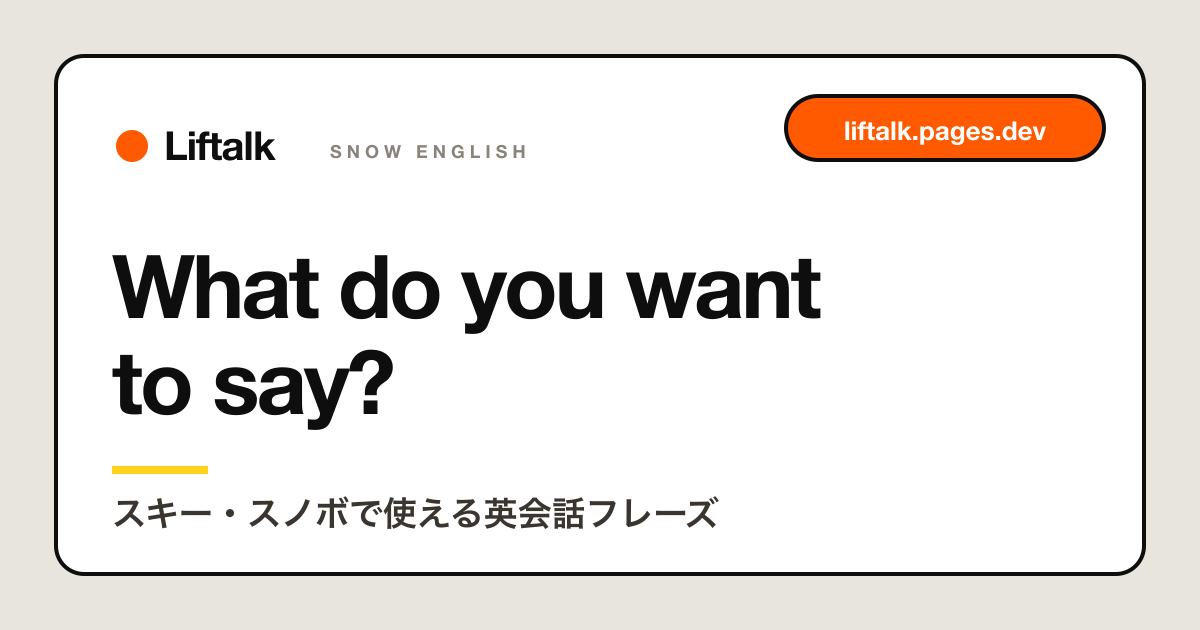
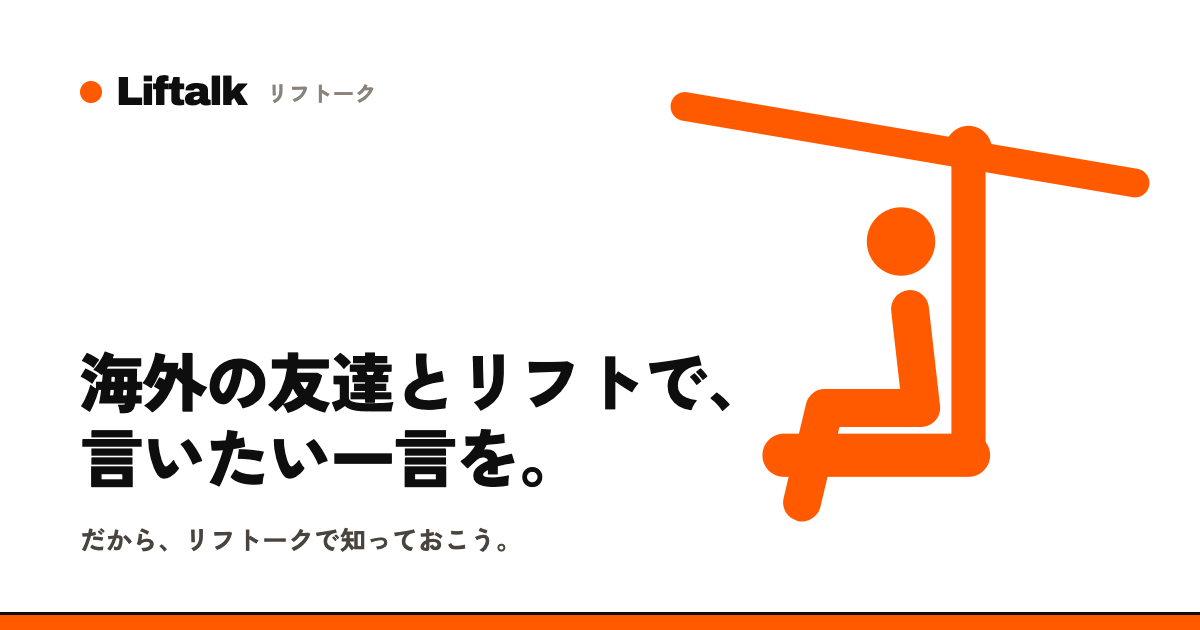
OGP画像とアイコンを新デザインに差し替え、manifestを追加

diff --git a/README.md b/README.md
@@ -32,7 +32,7 @@ npm run deploy   # Cloudflare にデプロイ（要 `npx wrangler login`）
 - フレーズ詳細・カテゴリは**ビルド時に静的生成**（SEO対象）。検索・Saved・Study はページ内の小さな `<script>` が `hidden` を切り替えるだけ。
 - フォント：Archivo は Astro Fonts API でセルフホスト＋preload。Zen Kaku Gothic New は `@fontsource` を非同期読み込み（描画をブロックしない）。
 - フレーズを追加したら `npm run build` するだけで詳細ページ・サイトマップも増えます。
-- SNS共有画像 `public/og.png` は `node scripts/generate-og.mjs` で再生成できます。
+- SNS共有画像 `public/og.png`（1200×630）とアイコン類（`favicon.svg` / `favicon.ico` / `apple-touch-icon.png` / `icon-192.png` / `icon-512.png`）は `public/` に直接置いています。差し替えるときは同じファイル名で上書きしてください。
 - JSON-LD は `src/lib/seo.ts`（トップ：WebSite、カテゴリ・フレーズ：BreadcrumbList）。
 
 ## デプロイ（Cloudflare Pages・無料枠）
